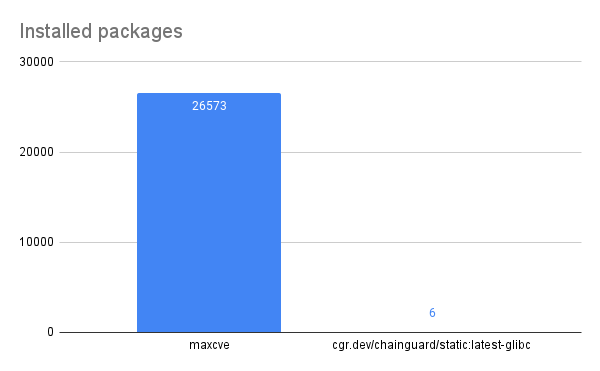
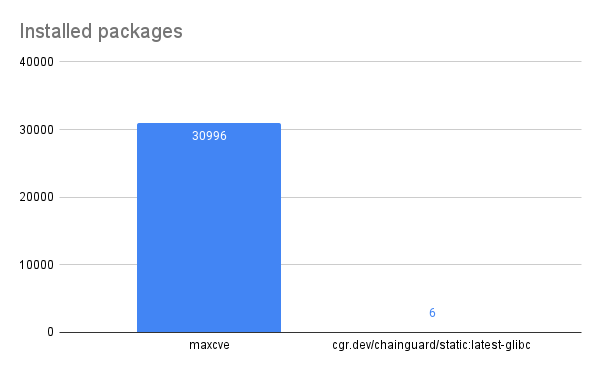
update stats

diff --git a/README.md b/README.md
@@ -4,17 +4,19 @@
 
 This repo generates a container image that maximizes the number of CVEs in the image, while minimizing the size of the image.
 
-The result is a 148 KB image that reports as having almost _30,000 CVEs_. That's roughly one CVE for every 5 bytes of image data!
+The result is a 183 KB image that it has _more than 35,000 known vulnerabilities_. That's roughly one CVE for every 5 bytes of image data!
 
 ```
-$ grype ghcr.io/imjasonh/maxcve/maxcve
+$ grype ghcr.io/imjasonh/maxcve/maxcve 1> /dev/null
 ...
  ✔ Vulnerability DB                [no update available]
- ✔ Cataloged packages              [26573 packages]
- ✔ Scanned for vulnerabilities     [29345 vulnerability matches]
-   ├── by severity: 1925 critical, 17158 high, 8845 medium, 400 low, 0 negligible (1017 unknown)
-   └── by status:   24759 fixed, 4586 not-fixed, 0 ignored
+ ✔ Cataloged packages              [30996 packages]
+ ✔ Scanned for vulnerabilities     [35030 vulnerability matches]
+   ├── by severity: 1966 critical, 19826 high, 11012 medium, 429 low, 0 negligible (1797 unknown)
+   └── by status:   27795 fixed, 7235 not-fixed, 0 ignored
 ```
+
+(As of Dec 7, 2023)
 
 Or, if you prefer to consume data visually:
 
@@ -37,9 +39,9 @@ go run . ttl.sh/maxcve
 To minimize size, the image doesn't actually contain any packages. In fact, it only contains two files:
 
 1. `/etc/os-release`, which tells scanners the image is a [Wolfi](https://wolfi.dev) image.
-1. `/lib/apk/db/installed`, which tells scanners that the image contains every version of every package that Wolfi has available.
+1. `/lib/apk/db/installed`, which tells scanners what packages the image contains -- i.e., that it contains every version of every package that Wolfi has ever produced.
 
-Wolfi aims to reduce the number of vulnerable packages by producing new fixed packages as soon as possible. But, along the way, it also produces lots and _lots_ of packages that _do_ contain vulnerabilities. This image claims to contain all of them.
+Wolfi aims to reduce the number of vulnerable packages by producing new fixed packages as soon as possible. But, along the way, it also produces lots and _lots_ of packages, and those packages over time _do_ have vulnerabilities discovered in them. This image claims to contain all of them.
 
 Amusingly, it takes about 500ms to build and push the image, and almost two minutes to scan it.
 
